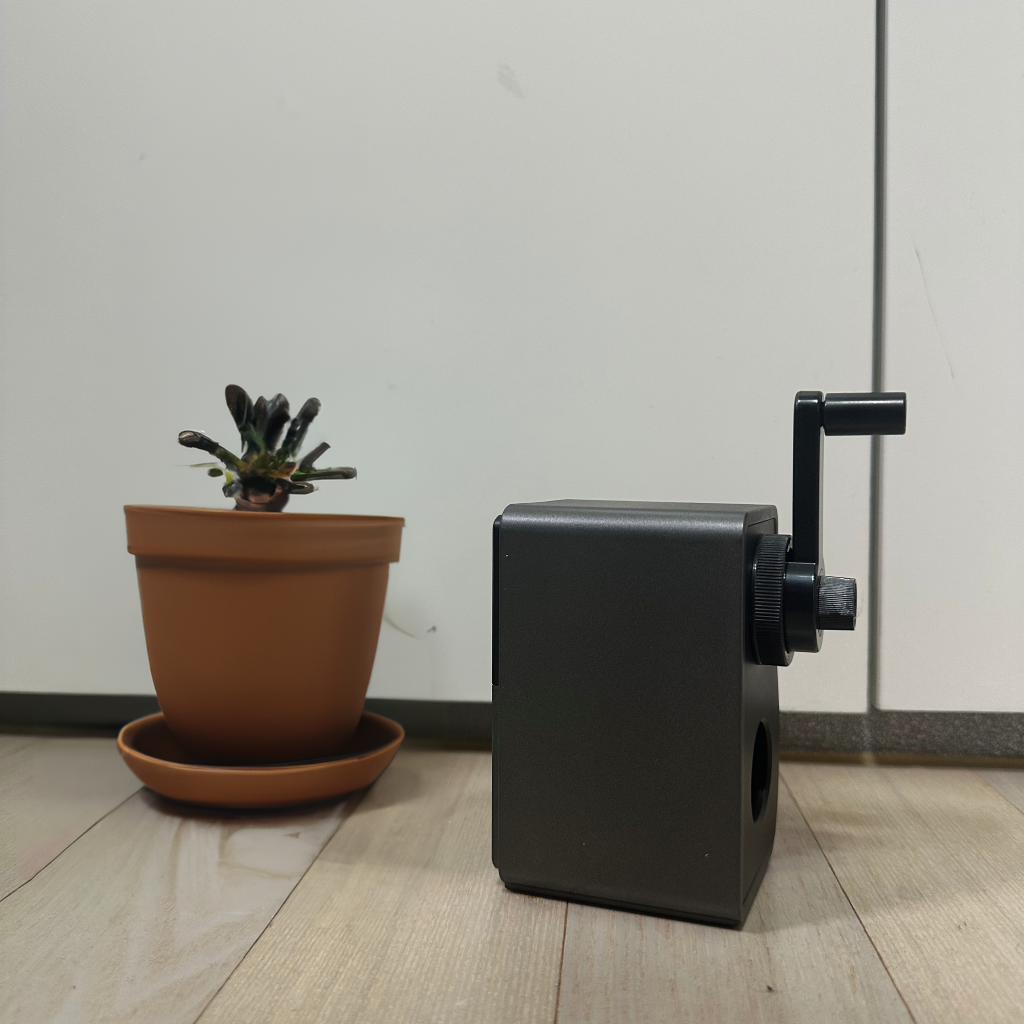
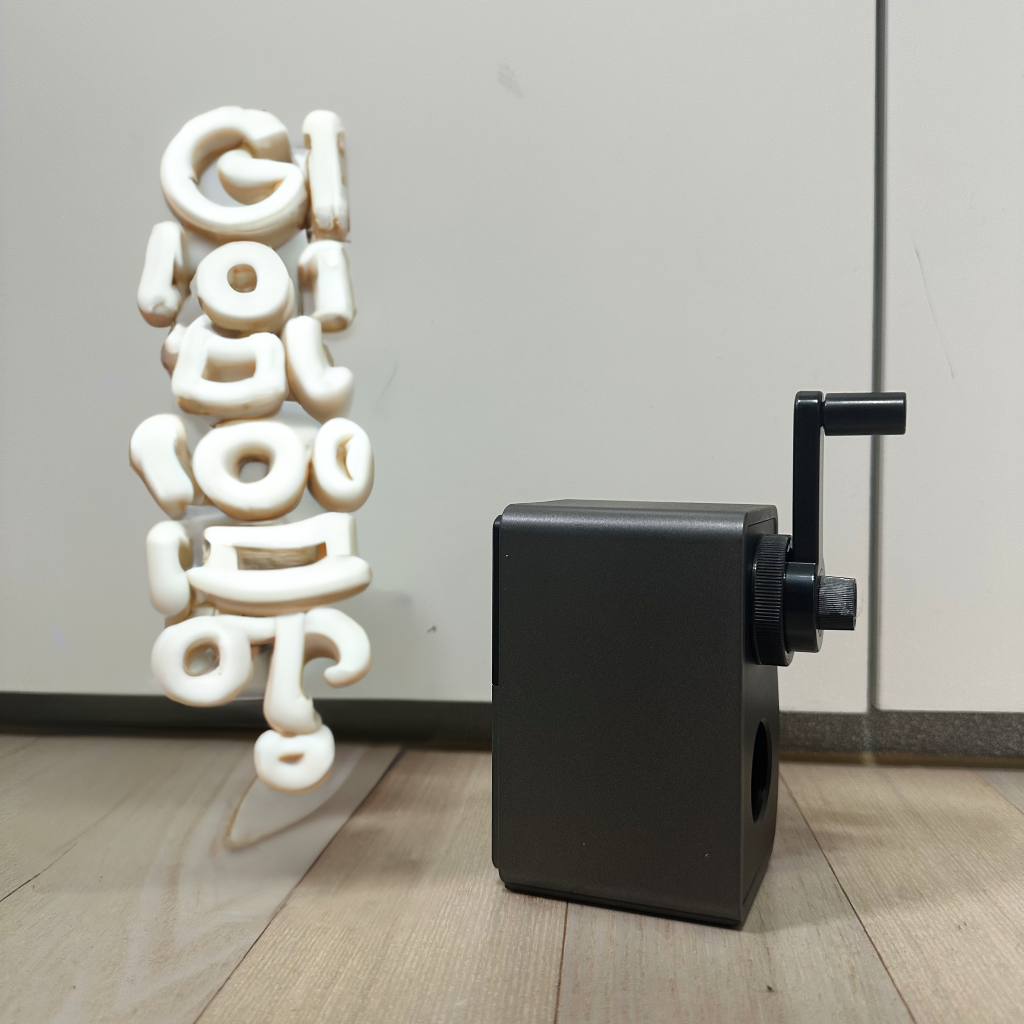
0821

Changed region(s): [[0.0938, 0.0938, 0.4062, 0.875]]

diff --git a/llm2/open8.py b/llm2/open8.py
@@ -17,5 +17,5 @@ def test(prompt):
     urllib.request.urlretrieve(image_url, "img/sample2.png")
 
 if __name__ == '__main__':
-    prompt = "크리스마스 트리를 넣어죠"
+    prompt = "흰색 강아지를 넣어죠"
     test(prompt)
